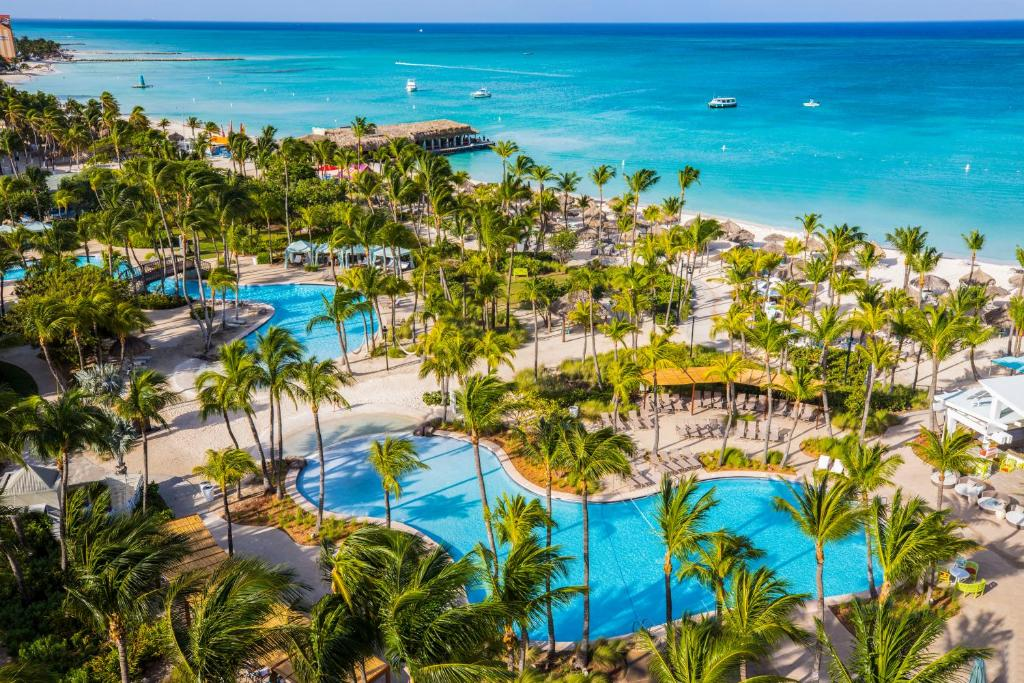
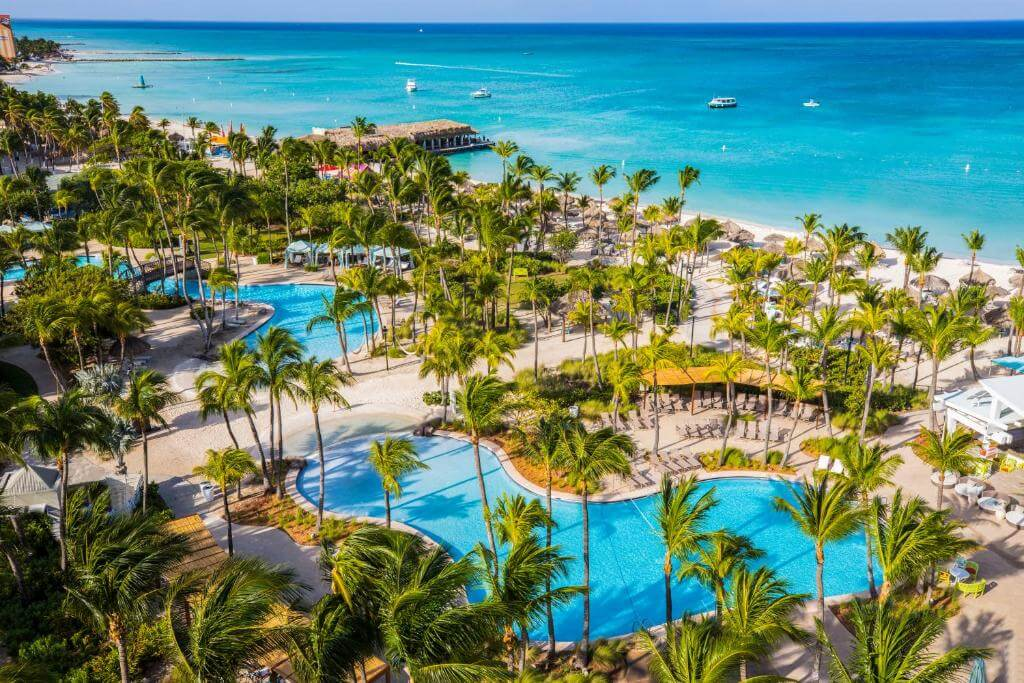
Changed: compressed images

diff --git a/index.html b/index.html
@@ -253,42 +253,42 @@
                 <div class="footer__list footer__categories">
                     <h3 class="footer__header">ALL CATEGORIES</h3>
                     <ul class="footer__ul">
-                        <li class="footer__item"><a href="#" class="footer__link">All Deals</a></li>
-                        <li class="footer__item"><a href="#" class="footer__link">Hotels</a></li>
-                        <li class="footer__item"><a href="#" class="footer__link">Activities</a></li>
-                        <li class="footer__item"><a href="#" class="footer__link">Spa Packages</a></li>
-                        <li class="footer__item"><a href="#" class="footer__link">Hotel Day Packages</a></li>
-                        <li class="footer__item"><a href="#" class="footer__link">Restaurants</a></li>
-                        <li class="footer__item"><a href="#" class="footer__link">Fitness</a></li>
-                        <li class="footer__item"><a href="#" class="footer__link">Rodrigues</a></li>
+                        <li class="footer__item footer__item--hover"><a href="#" class="footer__link">All Deals</a></li>
+                        <li class="footer__item footer__item--hover"><a href="#" class="footer__link">Hotels</a></li>
+                        <li class="footer__item footer__item--hover"><a href="#" class="footer__link">Activities</a></li>
+                        <li class="footer__item footer__item--hover"><a href="#" class="footer__link">Spa Packages</a></li>
+                        <li class="footer__item footer__item--hover"><a href="#" class="footer__link">Hotel Day Packages</a></li>
+                        <li class="footer__item footer__item--hover"><a href="#" class="footer__link">Restaurants</a></li>
+                        <li class="footer__item footer__item--hover"><a href="#" class="footer__link">Fitness</a></li>
+                        <li class="footer__item footer__item--hover"><a href="#" class="footer__link">Rodrigues</a></li>
                     </ul>
                 </div>
                 <div class="footer__list footer__additional">
                     <h3 class="footer__header">ADDITIONAL INFORMATION</h3>
                     <ul class="footer__ul">
-                        <li class="footer__item"><a href="#" class="footer__link">About Us</a></li>
-                        <li class="footer__item"><a href="#" class="footer__link">Contact Us</a></li>
-                        <li class="footer__item"><a href="#" class="footer__link">How does it work?</a></li>
-                        <li class="footer__item"><a href="#" class="footer__link">Frequently Asked Questions</a></li>
-                        <li class="footer__item"><a href="#" class="footer__link">Deals.mu loyalty program</a></li>
-                        <li class="footer__item"><a href="#" class="footer__link">Promote your Business on BTP</a></li>
+                        <li class="footer__item footer__item--hover"><a href="#" class="footer__link">About Us</a></li>
+                        <li class="footer__item footer__item--hover"><a href="#" class="footer__link">Contact Us</a></li>
+                        <li class="footer__item footer__item--hover"><a href="#" class="footer__link">How does it work?</a></li>
+                        <li class="footer__item footer__item--hover"><a href="#" class="footer__link">Frequently Asked Questions</a></li>
+                        <li class="footer__item footer__item--hover"><a href="#" class="footer__link">Deals.mu loyalty program</a></li>
+                        <li class="footer__item footer__item--hover"><a href="#" class="footer__link">Promote your Business on BTP</a></li>
                     </ul>
                 </div>
                 <div class="footer__social-network">
                     <h3 class="footer__header footer__header--margin">Social Network</h3>
                     <div class="footer__links">
-                        <a href="" class="footer__link"><img src="img/facebook.svg" alt="Facebook Logo"></a>
-                        <a href="" class="footer__link"><img src="img/youtube.svg" alt="Youtube Logo"></a>
-                        <a href="" class="footer__link"><img src="img/instagram.svg" alt="Instagram Logo"></a>
+                        <a href="#" class="footer__link"><img src="img/facebook.svg" alt="Facebook Logo"></a>
+                        <a href="#" class="footer__link"><img src="img/youtube.svg" alt="Youtube Logo"></a>
+                        <a href="#" class="footer__link"><img src="img/instagram.svg" alt="Instagram Logo"></a>
                     </div>
                 </div>
                 <div class="footer__list footer__legal">
                     <h3 class="footer__header">LEGAL INFORMATION</h3>
                     <ul class="footer__ul">
-                        <li class="footer__item"><a href="#" class="footer__link">Terms & Conditions</a></li>
-                        <li class="footer__item"><a href="#" class="footer__link">Disclaimer</a></li>
-                        <li class="footer__item"><a href="#" class="footer__link">Cancellation policy</a></li>
-                        <li class="footer__item"><a href="#" class="footer__link">Privacy</a></li>
+                        <li class="footer__item footer__item--hover"><a href="#" class="footer__link">Terms & Conditions</a></li>
+                        <li class="footer__item footer__item--hover"><a href="#" class="footer__link">Disclaimer</a></li>
+                        <li class="footer__item footer__item--hover"><a href="#" class="footer__link">Cancellation policy</a></li>
+                        <li class="footer__item footer__item--hover"><a href="#" class="footer__link">Privacy</a></li>
                     </ul>
                 </div>
                 <div class="footer__contact-details">

diff --git a/css/style.css b/css/style.css
@@ -411,6 +411,12 @@ template {
     border: none;
     background-color: #ec1f46;
     cursor: pointer; }
+    .search__button:hover {
+      background-color: #e4002a;
+      color: #000; }
+    .search__button:active:hover {
+      background-color: #a30320;
+      color: #fff; }
 
 .user {
   display: -webkit-box;
@@ -457,6 +463,8 @@ template {
     font-size: 14px;
     line-height: 18px;
     text-transform: uppercase; }
+    .navigation__list:hover {
+      color: #ffffffb6; }
 
 .breadcrump {
   padding: 19px 0 19px 52px; }
@@ -608,6 +616,12 @@ template {
     font-weight: bold;
     font-size: 14px;
     line-height: 18px; }
+  .rating:hover {
+    background-color: #e4002a;
+    color: #000; }
+  .rating:active:hover {
+    background-color: #a30320;
+    color: #fff; }
 
 .booking {
   background-color: #0A223D;
@@ -705,6 +719,12 @@ template {
     background-color: #ec1f46;
     border-radius: 4px;
     cursor: pointer; }
+    .booking__button:hover {
+      background-color: #e4002a;
+      color: #000; }
+    .booking__button:active:hover {
+      background-color: #a30320;
+      color: #fff; }
 
 .map {
   width: 347px;
@@ -780,6 +800,12 @@ template {
     background-color: #ec1f46;
     border: none;
     cursor: pointer; }
+    .subscribe__button:hover {
+      background-color: #e4002a;
+      color: #000; }
+    .subscribe__button:active:hover {
+      background-color: #a30320;
+      color: #fff; }
 
 .reviews {
   padding: 40px 0 70px; }
@@ -1003,6 +1029,8 @@ template {
     font-weight: normal;
     font-size: 14px;
     line-height: 160%; }
+    .footer__item--hover:hover, .footer__item .footer__item {
+      color: #fff; }
     .footer__item--icon:nth-child(1) {
       content: '';
       background-image: url("../img/place-marker.svg");
@@ -1068,9 +1096,9 @@ template {
     display: -webkit-box;
     display: -ms-flexbox;
     display: flex;
-    -webkit-box-align: start;
-        -ms-flex-align: start;
-            align-items: flex-start;
+    -webkit-box-align: center;
+        -ms-flex-align: center;
+            align-items: center;
     -ms-flex-wrap: wrap;
         flex-wrap: wrap;
     -webkit-box-pack: justify;
@@ -1081,11 +1109,19 @@ template {
     .footer__input-group {
       margin-bottom: 15px;
       -ms-flex-preferred-size: 48%;
-          flex-basis: 48%; }
+          flex-basis: 48%;
+      -ms-flex-item-align: start;
+          align-self: flex-start; }
   .footer__message {
     margin-bottom: 23px;
     -ms-flex-preferred-size: 100%;
         flex-basis: 100%; }
+  .footer__button:hover {
+    background-color: #e4002a;
+    color: #000; }
+  .footer__button:active:hover {
+    background-color: #a30320;
+    color: #fff; }
   .footer__info {
     font-weight: bold;
     font-size: 12px;
@@ -1117,6 +1153,8 @@ template {
       font-size: 12px;
       line-height: 15px;
       color: #FFFFFF; }
+      .footer-bottom__item:hover {
+        color: #ffffffb6; }
     .footer-bottom__link {
       color: inherit;
       text-decoration: none; }
